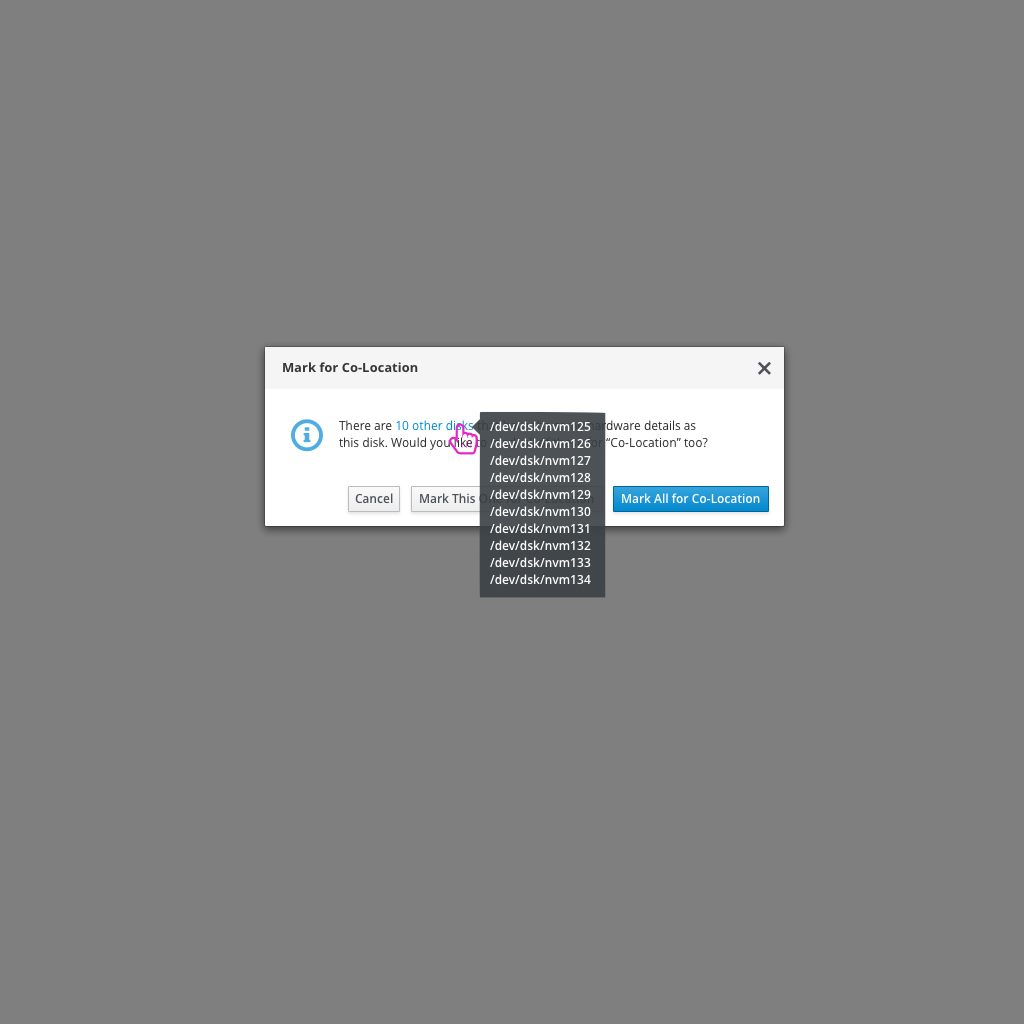
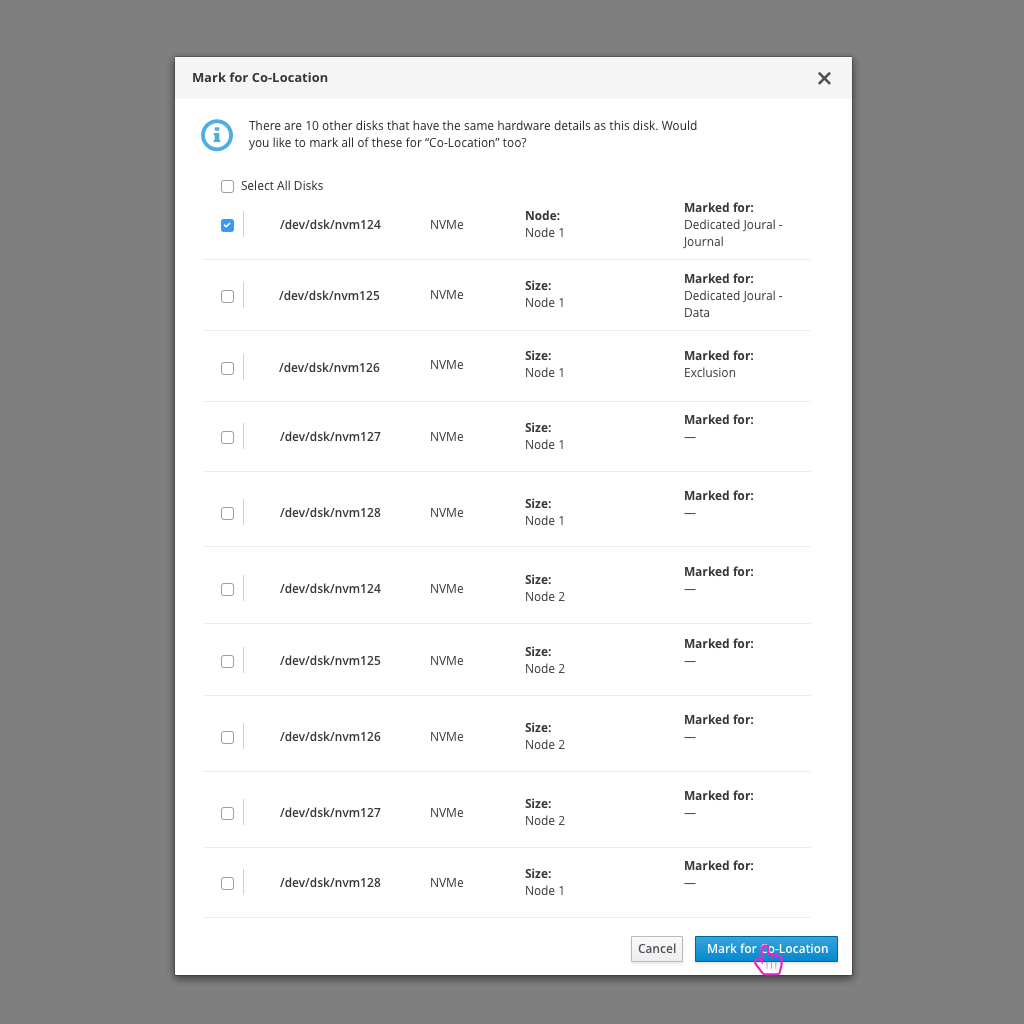
Updating "Mark additional disks for co-location" example

diff --git a/tripleo-ui/5-popular-use-cases/7.CephLayoutTuning.md b/tripleo-ui/5-popular-use-cases/7.CephLayoutTuning.md
@@ -37,7 +37,4 @@ Today, the user needs to select to use Ceph at a high level configuration, and t
 - Something specific to Ceph storage that a user could define for disks is whether it is marked for Co-Location, Dedicated Journal, or Exclusion.
 
 ![markformodal](img/Ceph-Storage-Configure_Disks_Confirm.png)
-- If there are a number of other disks that share the same profile as the disk that is being marked, the user will be asked if they'd like to mark all of those for Co-Location as well.
-- Hovering over the number of disks will show a list of disk names for user confirmation.
-
-![markformodal2](img/Ceph-Storage-Configure_Disks_Confirm2.png)
+- If there are a number of other disks that share the same profile as the disk that is being marked, the user will be presented with a list of these disks with the option to choose any of them for marking as well.
